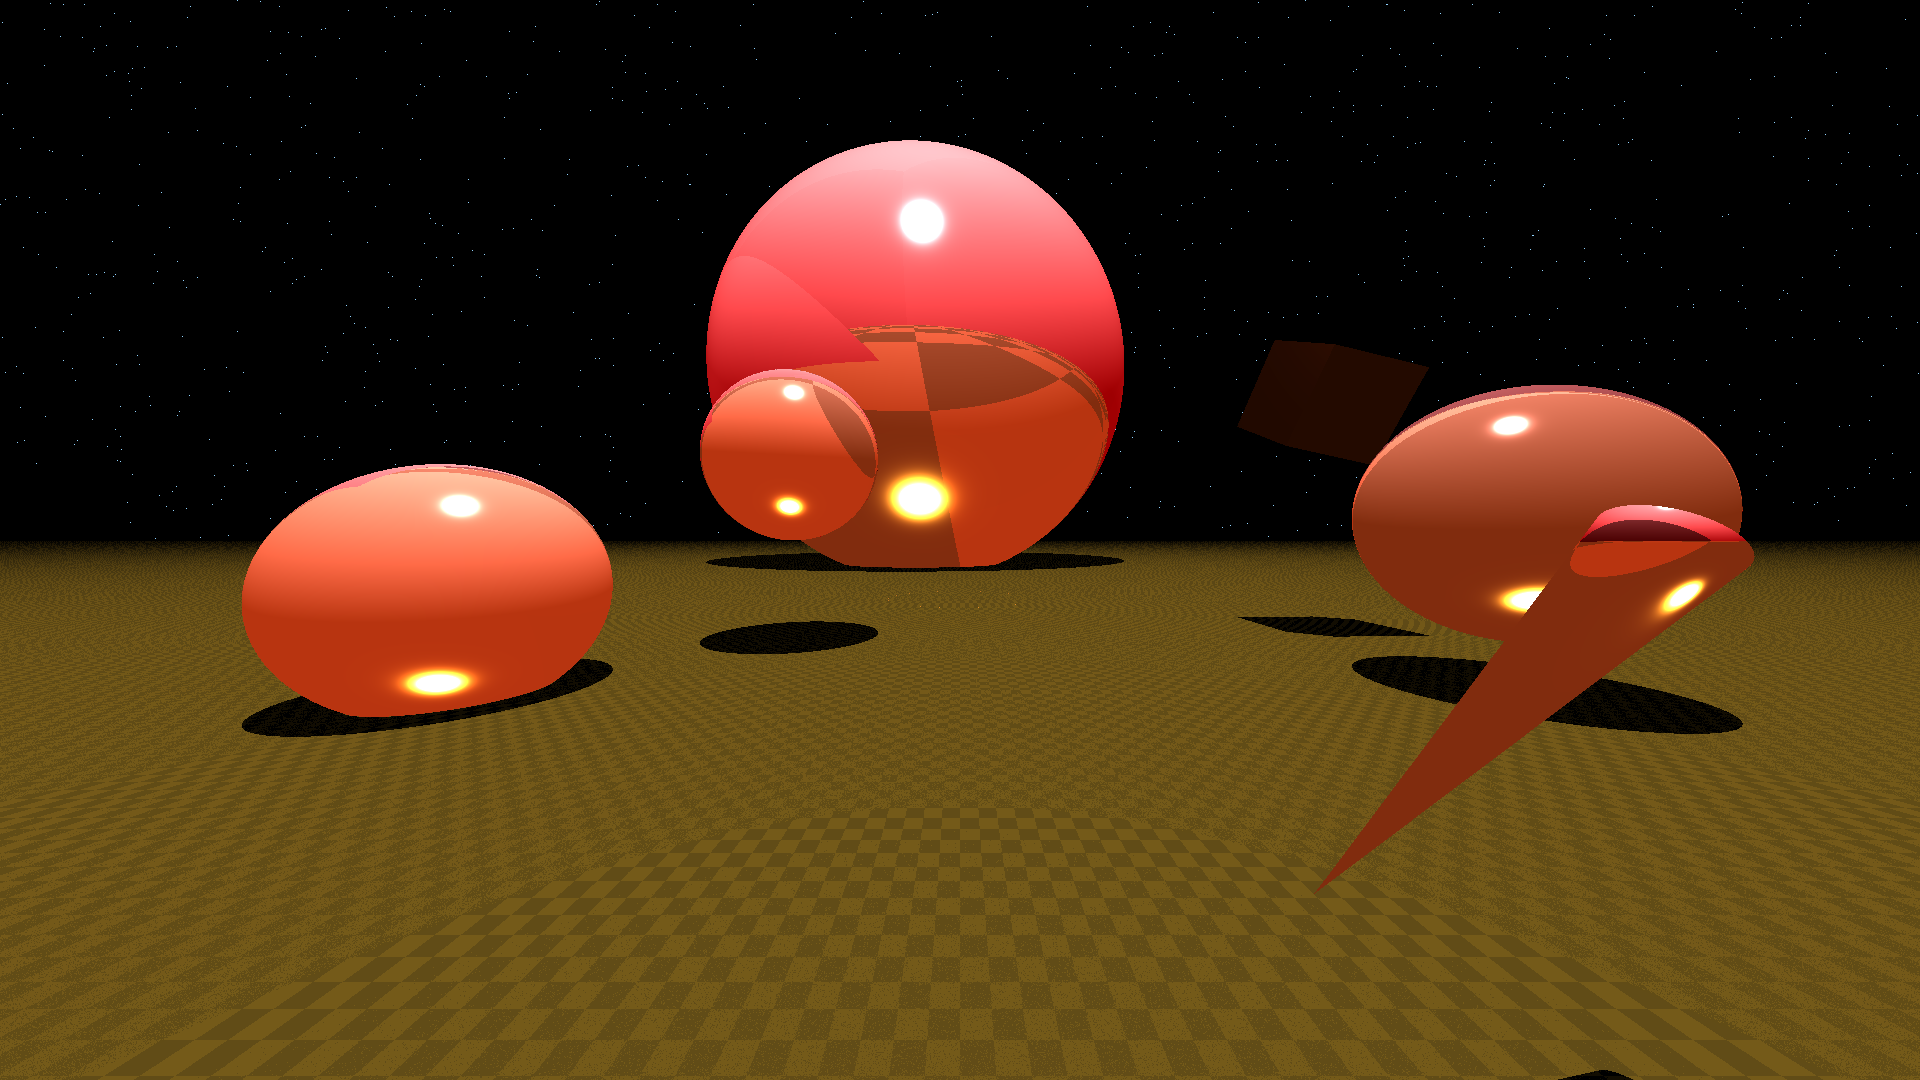
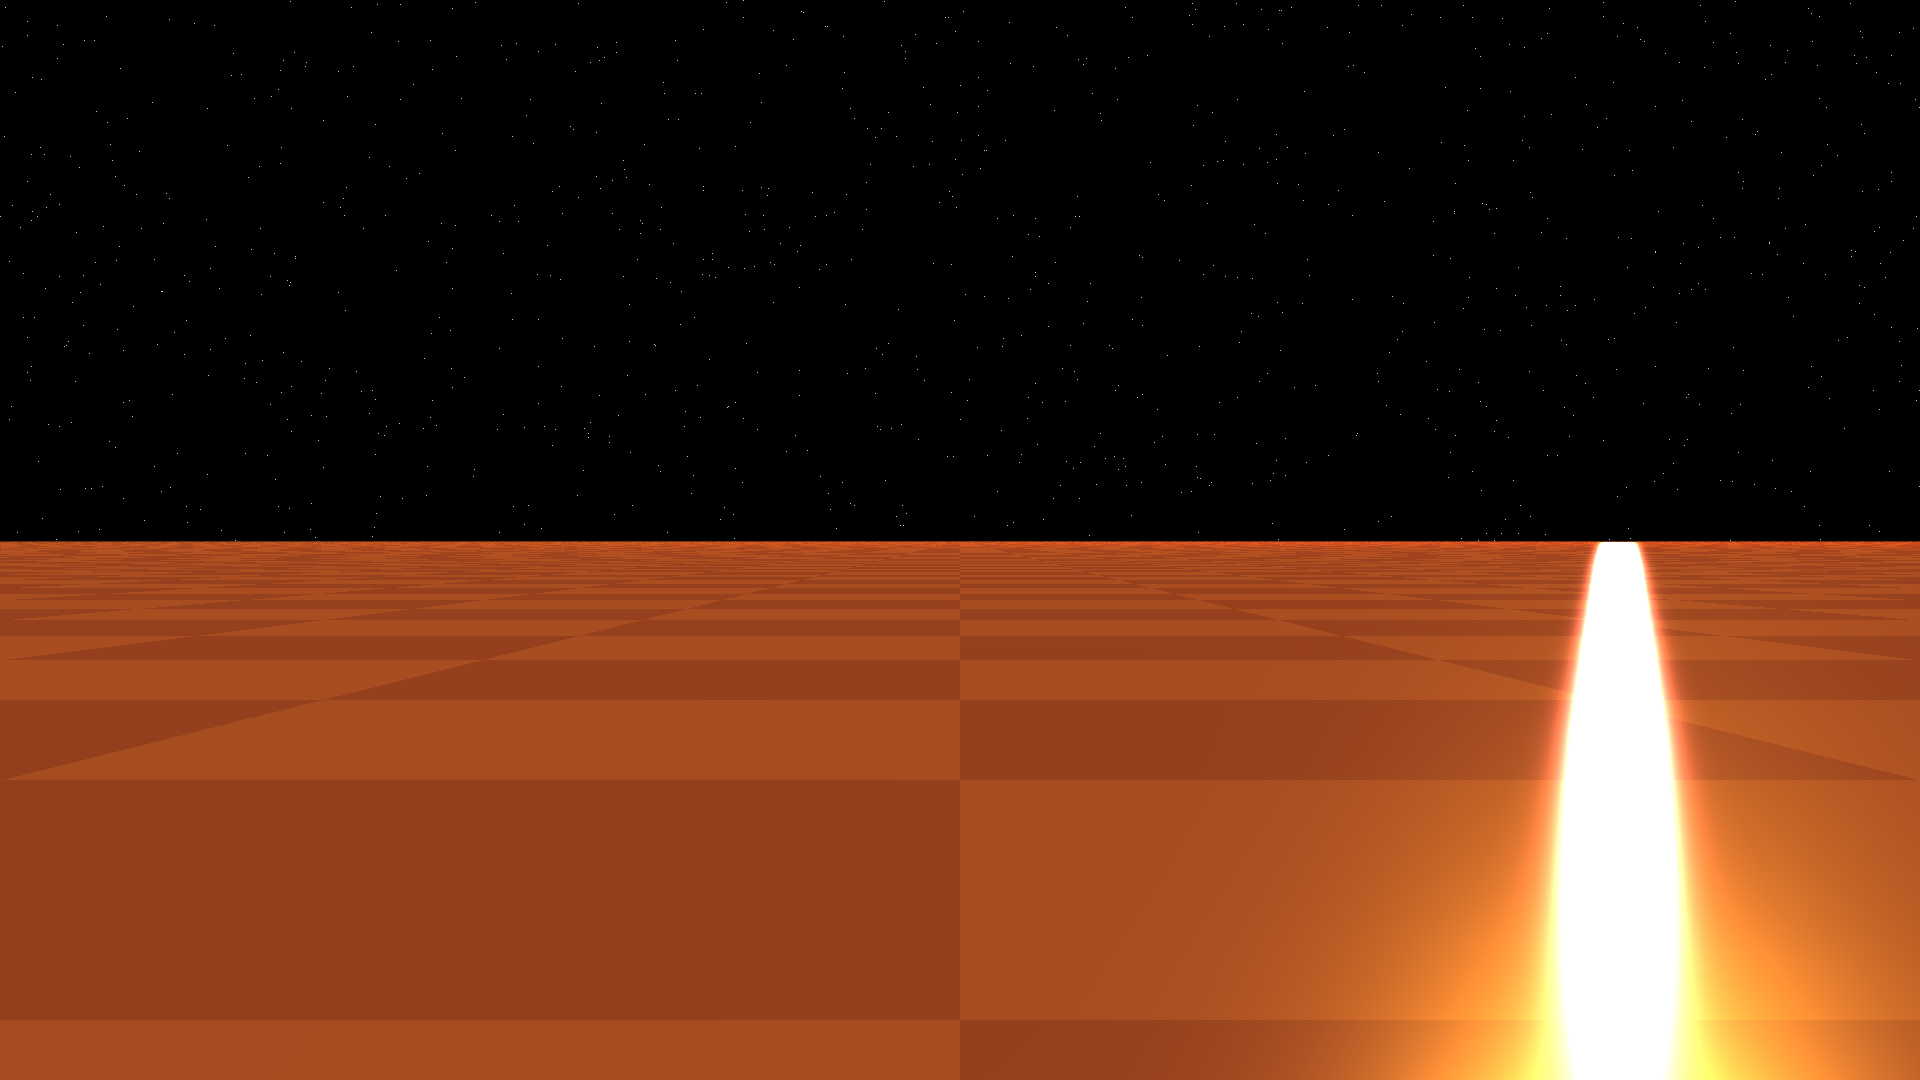
Changes to sdlOneObject

diff --git a/src/main/Renderer.java b/src/main/Renderer.java
@@ -156,11 +156,12 @@ public class Renderer {
 
     /**
      * Will calculate the shading of a ray hitting an object. Will recursively spawn rays for reflection and refraction. Will also take into account shadow.
-     * @param ray: the ray that hit an object.
-     * @param currentObject: the object that the ray hit;
-     * @param intersection: the intersection of the ray.
-     * @param rgb: the current rgb value.
-     * @param recurseLevel: the level of ray.
+     *
+     * @param ray:            the ray that hit an object.
+     * @param currentObject:  the object that the ray hit;
+     * @param intersection:   the intersection of the ray.
+     * @param rgb:            the current rgb value.
+     * @param recurseLevel:   the level of ray.
      * @param previousObject: the speed of light in the previous object.
      * @return: updated rgb value.
      */
@@ -176,6 +177,13 @@ public class Renderer {
 
         int debug;
 
+        //re-transform the hitpoint
+        Vector hitpoint;
+        if (intersection.getEnter() == null) // tangent hit or only exit hit ==> only one hitpoint which we have set as exit
+            hitpoint = intersection.getExit();
+        else
+            hitpoint = intersection.getEnter();
+
         double[] normalVector = Utility.multiplyMatrices(intersection.getNormalVector(), currentObject.getTransformation().getTransformation());
         if (currentObject instanceof Sphere) {
             //normalvector - center of sphere
@@ -183,8 +191,9 @@ public class Renderer {
             center = Utility.multiplyMatrices(center, Utility.transpose(currentObject.getTransformation().getTransformation())); // will always remain 0 0 0 1
             normalVector = Utility.subtract(normalVector, center);
         }
-
         normalVector = Utility.normalize(normalVector);
+
+        hitpoint = new Vector(Utility.multiplyMatrices(hitpoint.getCoords(), currentObject.getTransformation().getTransformation()));
 
         // the fresnel coeff is the fraction that is reflected and will be higher with higher refractionindices
 
@@ -195,14 +204,6 @@ public class Renderer {
         for (int i = 0; i < 3; i++) {
             fresnelCoefficient0RGB[i] = Math.pow((currentObject.getMaterial().getRefractionIndex()[i] - 1), 2) / Math.pow((currentObject.getMaterial().getRefractionIndex()[i] + 1), 2);
         }
-
-        //re-transform the hitpoint
-        Vector hitpoint;
-        if (intersection.getEnter() == null) // tangent hit or only exit hit ==> only one hitpoint which we have set as exit
-            hitpoint = intersection.getExit();
-        else
-            hitpoint = intersection.getEnter();
-        hitpoint = new Vector(Utility.multiplyMatrices(hitpoint.getCoords(), currentObject.getTransformation().getTransformation()));
 
         /*
           AMBIENT
@@ -215,12 +216,8 @@ public class Renderer {
         /*
             TEXTURE
          */
+
         double[] textureRgb = getTexture(currentObject.getTexture(), hitpoint.getX(), hitpoint.getY(), hitpoint.getZ());
-        if (currentObject instanceof Plane) {
-            debug = 0;
-        }
-        if (recurseLevel == 1)
-            debug = 0;
         for (int i = 0; i < 3; i++) {
             rgb[i] *= textureRgb[i];
         }
@@ -388,18 +385,24 @@ public class Renderer {
     }
 
     private double[] getTexture(Texture texture, double x, double y, double z) {
-        if (texture == Texture.NONE) return new double[]{1, 1, 1};
-
         if (texture == Texture.CHECKERBOARD) {
-            boolean u = ((int) (x * 0.25)) % 2 == 0;
-            boolean v = ((int) (y * 0.25)) % 2 == 0;
-            boolean w = ((int) (z * 0.25)) % 2 == 0;
+            boolean u = ((int) (x * 0.125)) % 2 == 0;
+            boolean v = ((int) (y * 0.125)) % 2 == 0;
+            boolean w = ((int) (z * 0.125)) % 2 == 0;
 
-            if (u ^ v ^ w)
-                if ((x < 0 && y > 0) || (x > 0 && y < 0)) return new double[]{0, 0, 0};
-                else return new double[]{1, 1, 1};
-            else if ((x < 0 && y > 0) || (x > 0 && y < 0)) return new double[]{1, 1, 1};
-            else return new double[]{0, 0, 0};
+            if (u ^ v ^ w) {
+                if ((x < 0 && y > 0) || (x > 0 && y < 0)) {
+                    return new double[]{0, 0, 0};
+                }
+                else {
+                    return new double[]{1, 1, 1};
+                }
+            } else if ((x < 0 && y > 0) || (x > 0 && y < 0)) {
+                return new double[]{1, 1, 1};
+            }
+            else {
+                return new double[]{0, 0, 0};
+            }
         }
 
         return new double[]{1, 1, 1};

diff --git a/src/main/sdl/SDL.java b/src/main/sdl/SDL.java
@@ -25,7 +25,7 @@ public class SDL {
         Map<String, Material> materials = new HashMap<String, Material>() {
             {
                 put("ruby", new Material(new double[]{75, 0.01175, 1.01175}, new double[]{75.81424, 0.04136, 1.04136}, new double[]{0.827811, 0.626959, 0.626959}, new double[]{1.762, 1.770, 1.778}, 0.2, new double[]{0.05, 5, 0.001}, 0.6, 0.6, 0.6138));
-                put("perfectMirror", new Material(new double[]{0, 0, 0}, new double[]{0, 0, 0}, new double[]{1, 1, 1}, new double[]{1, 1, 1}, 0.2, new double[]{0.5, 0.499, 0.0001}, 0.8, 1, 0.5220));
+                put("perfectmirror", new Material(new double[]{0, 0, 0}, new double[]{0, 0, 0}, new double[]{1, 1, 1}, new double[]{1, 1, 1}, 0.2, new double[]{0.5, 0.499, 0.0001}, 0.8, 1, 0.5220));
                 put("chrome", new Material(new double[]{0.25, 0.25, 0.25}, new double[]{0.4, 0.4, 0.4}, new double[]{3.1812, 3.1812, 3.1812}, new double[]{3.1812, 3.1812, 3.1812}, 0.2, new double[]{0.4, 0.099, 0.0001}, 0.6, 0, 0));
                 put("gold", new Material(new double[]{0.24725, 0.1995, 0.0745}, new double[]{0.85164, 0.70648, 0.32648}, new double[]{0.628281, 0.555802, 0.366065}, new double[]{fresnelToRefr(0.989), fresnelToRefr(0.876), fresnelToRefr(0.399)}, 0.2, new double[]{0.3, 0.399, 0.001}, 0.6, 0, 0));
                 put("copper", new Material(new double[]{0.19125, 0.0735, 0.0225}, new double[]{0.7038, 0.27048, 0.0828}, new double[]{0.256777, 0.137622, 0.086014}, new double[]{fresnelToRefr(0.755), fresnelToRefr(0.49), fresnelToRefr(0.095)}, 0.2, new double[]{0.6, 0.3, 0.1}, 0.1, 0, 0));
@@ -39,7 +39,8 @@ public class SDL {
         Transformation scale = new Transformation();
         Transformation rotation = new Transformation();
         Texture texture = Texture.NONE;
-        Material material = materials.get("perfectMirror"); // default is ruby
+        Material material = materials.get("ruby"); // default is ruby
+        double ratio = 0; // for taperedcylinder
 
         while (reader.ready()) {
             String currentLine = reader.readLine();
@@ -76,14 +77,15 @@ public class SDL {
                         rotation = new Rotation().rotateX(coords[0]).rotateY(coords[1]).rotateZ(coords[2]);
                     }
                 } catch(Exception e) {
-                    System.out.println("No coords found on line: " + instruction);
+                    // probably the ratio of a taperedcylinder
+                    ratio = Double.parseDouble(instruction);
                 }
             }
 
             if (object != null) {
                 object.addTransformation(scale);
-                if (object instanceof Plane)
-                    System.out.println();
+                if (object instanceof TaperedCylinder)
+                    ((TaperedCylinder) object).setRatio(ratio);
                 object.addTransformation(translation);
                 object.addTransformation(rotation);
                 object.setTexture(texture);

diff --git a/src/main/Main.java b/src/main/Main.java
@@ -8,7 +8,7 @@ public class Main {
     public static void main(String[] args) {
         final double SCREEN_WIDTH = 1920;
         final double SCREEN_HEIGHT = 1080;
-        final double FOCALLENGTH = 500;
+        final double FOCALLENGTH = 1920;
         final double CMAX = 1920;
         final double RMAX = 1080;
 
@@ -30,17 +30,17 @@ public class Main {
 
         Scene scene = new Scene(); // light color
         scene.addLightsource(lightsourceWhite, new double[]{155, 155, 155});
-        /*scene.addLightsource(lightsourceBlue, new double[]{0, 0, 255});
+        scene.addLightsource(lightsourceBlue, new double[]{0, 0, 255});
         scene.addLightsource(lightsourceRed, new double[]{180, 0, 0});
         scene.addLightsource(lightsourceOrange, new double[]{200, 50, 0});
         //scene.addLightsource(lightsourcePink, new double[]{255, 30, 122});
-*/
+
         // camera in center of screen
         Camera camera = new Camera(FOCALLENGTH, 0, 0);
         scene.setCamera(camera);
 
         try {
-            scene.addObjects(SDL.parse("sdlAllObjects.sdl"));
+            scene.addObjects(SDL.parse("scenes/sdlOneObject.sdl"));
         } catch (IOException e) {
             System.out.println("Problem reading sdl");
         }

diff --git a/src/main/object/TaperedCylinder.java b/src/main/object/TaperedCylinder.java
@@ -8,10 +8,14 @@ import main.Vector;
 import java.util.Arrays;
 
 public class TaperedCylinder extends Object {
-    private final double ratio; // closer to 1: cylinder, closer to 0: cone
+    private double ratio; // closer to 1: cylinder, closer to 0: cone
 
     public TaperedCylinder(Material material, double ratio) {
         super(material);
+        this.ratio = ratio;
+    }
+
+    public void setRatio(double ratio) {
         this.ratio = ratio;
     }
 
